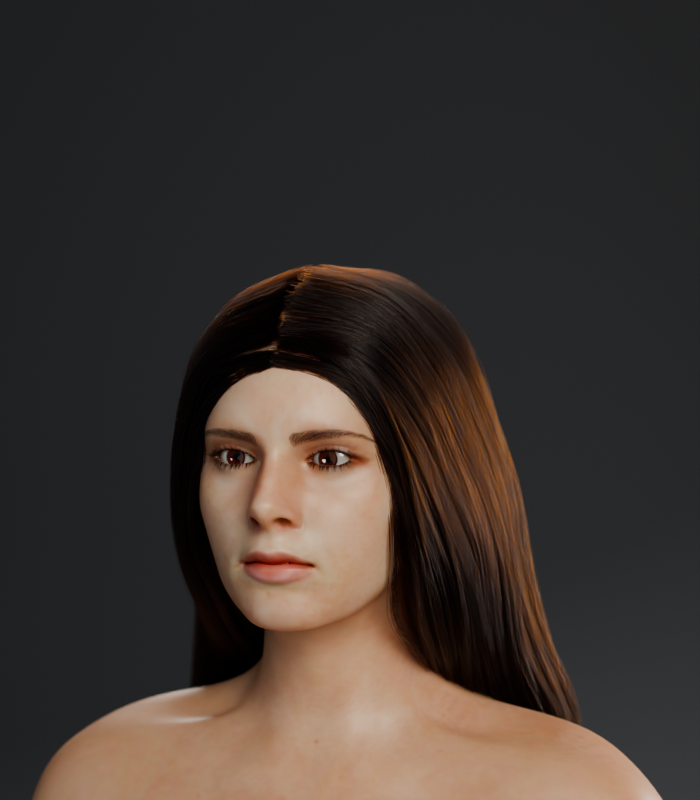
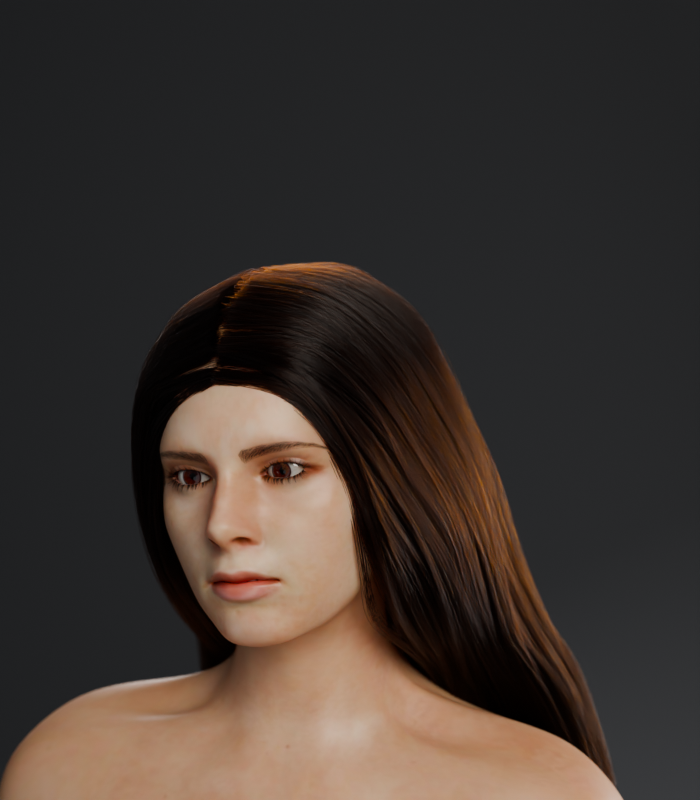
Natural contrapposto pose (poses.py) with grounded feet, forearm twist and relaxed fingers
Claude-Session: https://claude.ai/code/session_01RR3hqBBpXtUNbEBVCKLXNy

Changed region(s): [[0.0, 0.3125, 0.96, 1.0], [0.54, 0.875, 0.57, 0.9375], [0.45, 0.9062, 0.51, 0.9375]]

diff --git a/blender/poses.py b/blender/poses.py
@@ -1,0 +1,87 @@
+"""Poses para o rig do MakeHuman (mh_character.blend).
+As rotacoes sao em eixos do mundo (X = lado, Y = tras, Z = cima), em torno da cabeca do osso.
+Uso: import poses; poses.apply(arm, "natural")"""
+import bpy, math
+from mathutils import Matrix, Vector, Quaternion
+
+
+def _rot(arm, name, axis, deg):
+    pb = arm.pose.bones[name]; h = pb.head.copy(); T = Matrix.Translation(h)
+    pb.matrix = T @ Matrix.Rotation(math.radians(deg), 4, axis) @ T.inverted() @ pb.matrix
+    bpy.context.view_layer.update()
+
+
+def _move(arm, name, offset):
+    pb = arm.pose.bones[name]
+    pb.matrix = Matrix.Translation(Vector(offset)) @ pb.matrix
+    bpy.context.view_layer.update()
+
+
+def _local(arm, name, axis, deg):
+    """Rotacao no eixo local do osso (bom pra dobrar dedos, que tem eixo proprio)."""
+    pb = arm.pose.bones[name]; pb.rotation_mode = 'QUATERNION'
+    ax = {'X': (1, 0, 0), 'Y': (0, 1, 0), 'Z': (0, 0, 1)}[axis]
+    pb.rotation_quaternion = pb.rotation_quaternion @ Quaternion(ax, math.radians(deg))
+    bpy.context.view_layer.update()
+
+
+CURL_SIGN = 1
+
+
+def _curl_fingers(arm, s, base, extra=0.0):
+    """Dedos relaxados: cada falange dobra um pouco mais que a anterior."""
+    for f in range(2, 6):
+        for k, amt in ((1, 10), (2, 16), (3, 12)):
+            _local(arm, f"finger{f}-{k}.{s}", 'X', CURL_SIGN * (amt + base + extra * f))
+    _local(arm, f"finger1-2.{s}", 'X', CURL_SIGN * 8); _local(arm, f"finger1-3.{s}", 'X', CURL_SIGN * 10)
+
+
+def natural(arm):
+    global ARM_TWIST
+    """Contrapposto: peso na perna direita, quadril inclinado, ombros no sentido oposto."""
+    R = lambda n, a, d: _rot(arm, n, a, d)
+    # quadril: desloca pro lado da perna de apoio e inclina (lado esquerdo desce)
+    _move(arm, "root", (-0.035, 0, 0))
+    R("root", 'Y', -5)                       # inclina a bacia
+    R("root", 'Z', 6)                        # leve rotacao, corpo em 3/4 sutil
+    # perna de apoio (direita): reta e vertical
+    R("upperleg01.R", 'Y', 5 - 3)            # compensa a bacia (+5) e fecha um pouco (-3)
+    R("foot.R", 'Z', -4)
+    # perna livre (esquerda): joelho dobrado, pe pra frente e virado pra fora
+    R("upperleg01.L", 'Y', 5 + 6)            # compensa a bacia e traz o pe pra perto do outro
+    R("upperleg01.L", 'X', -10); R("upperleg01.L", 'Z', 12)
+    R("lowerleg01.L", 'X', 17)
+    R("foot.L", 'X', -6)
+    # coluna compensa: ombros inclinam ao contrario do quadril
+    R("spine04", 'Y', 3); R("spine03", 'Y', 3); R("spine02", 'Y', 2)
+    R("spine03", 'Z', -4)                    # tronco gira de volta pra camera
+    R("spine02", 'X', 2)
+    # cabeca: inclinada e virada levemente
+    R("neck02", 'Y', -3); R("head", 'Y', -5); R("head", 'Z', -6); R("head", 'X', 3)
+    # bracos soltos, assimetricos
+    R("upperarm01.R", 'Y', -37); R("upperarm01.R", 'X', 17)
+    R("lowerarm01.R", 'X', -12)
+    _local(arm, "lowerarm02.R", 'Y', ARM_TWIST); R("wrist.R", 'Z', -8)
+    R("upperarm01.L", 'Y', 39); R("upperarm01.L", 'X', 14)
+    R("lowerarm01.L", 'X', -9)
+    _local(arm, "lowerarm02.L", 'Y', -ARM_TWIST); R("wrist.L", 'Z', 10)
+    _curl_fingers(arm, "R", 12); _curl_fingers(arm, "L", 16, 1.5)
+
+
+ARM_TWIST = -50   # gira o antebraco: palma virada pra coxa
+
+POSES = {"natural": natural}
+
+
+def ground(arm, body, foot_names=("foot.R", "foot.L")):
+    """Desce/sobe o personagem pra que o ponto mais baixo do corpo toque o chao (z=0)."""
+    dg = bpy.context.evaluated_depsgraph_get()
+    ev = body.evaluated_get(dg); me = ev.to_mesh()
+    zmin = min((ev.matrix_world @ v.co).z for v in me.vertices)
+    ev.to_mesh_clear()
+    _move(arm, "root", (0, 0, -zmin))
+
+
+def apply(arm, name):
+    POSES[name](arm)
+    ground(arm, bpy.data.objects["Body"])

diff --git a/blender/render_mh.py b/blender/render_mh.py
@@ -12,8 +12,15 @@ def rot(name, axis, deg):
     pb.matrix = T @ Matrix.Rotation(math.radians(deg), 4, axis) @ T.inverted() @ pb.matrix
     bpy.context.view_layer.update()
 ARM_DOWN = float(os.environ.get("ARM_DOWN", 28))
-for s, sg in (("L", 1), ("R", -1)):
-    rot(f"upperarm01.{s}", 'Y', sg * ARM_DOWN); rot(f"lowerarm01.{s}", 'X', -10)
+POSE = os.environ.get("POSE", "natural")
+if POSE in ("natural",):
+    sys.path.insert(0, HERE); import poses
+    if os.environ.get("ARM_TWIST"): poses.ARM_TWIST = float(os.environ["ARM_TWIST"])
+    if os.environ.get("CURL_SIGN"): poses.CURL_SIGN = float(os.environ["CURL_SIGN"])
+    poses.apply(a, POSE)
+else:
+    for s, sg in (("L", 1), ("R", -1)):
+        rot(f"upperarm01.{s}", 'Y', sg * ARM_DOWN); rot(f"lowerarm01.{s}", 'X', -10)
 if os.environ.get("POSE") == "teste":   # pose forcada pra checar deformacao
     rot("spine03", 'X', -15)
     for s, sg in (("L", 1), ("R", -1)):
@@ -67,8 +74,10 @@ views = {"frente": ((0, -5.4, mid + 0.1), (0, 0, mid), 60, (600, 800), 4.0),
          "tres_quartos": ((3.4, -4.1, mid + 0.35), (0, 0, mid), 60, (600, 800), 4.0),
          "lado": ((5.4, 0, mid + 0.1), (0, 0, mid), 60, (600, 800), 4.0),
          "costas": ((0, 3.3, mid + 0.1), (0, 0, mid), 40, (600, 800), 4.0),
+         "maos": ((0.5, -1.7, 0.95), (0, 0, 0.85), 50, (800, 600), 8.0),
          "rosto": ((0.38, -1.15, head_z + 0.07), (0, 0, head_z + 0.06), 85, (700, 800), 5.6)}
 only = [v for v in sys.argv if v in views]
+if not only: only = [v for v in views if v != "maos"]
 for n, (loc, tgt, lens, res, fstop) in views.items():
     if only and n not in only: continue
     sc.camera = cam(n, loc, tgt, lens, fstop); sc.render.resolution_x, sc.render.resolution_y = res
